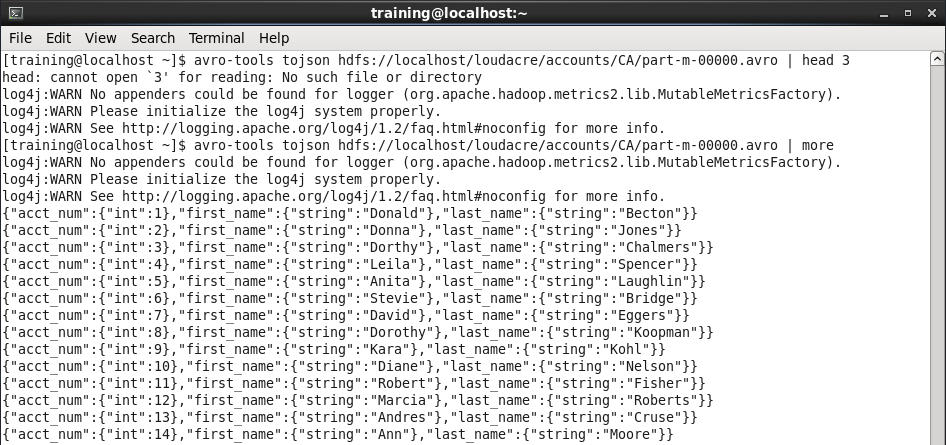
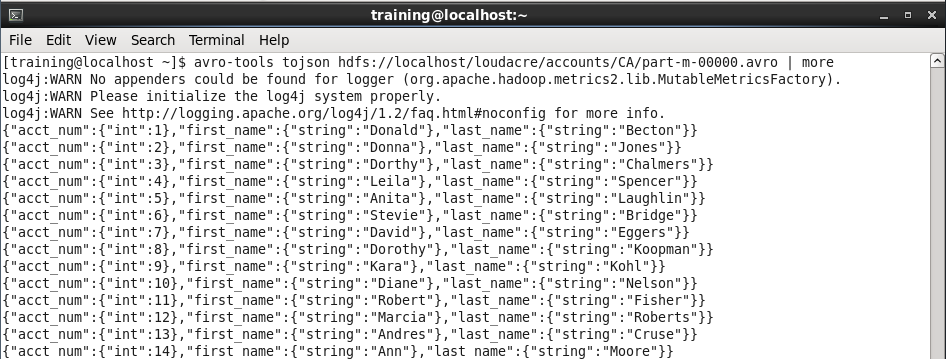
README.md updated
README.md updated

Changed region(s): [[0.0, 0.0, 1.0, 1.0]]

diff --git a/Sqoop/README.md b/Sqoop/README.md
@@ -6,26 +6,26 @@
 
   A. Look up table `accounts` and find out primary key, first name and last name columns.
   ```
-  [training@localhost ~]$ sqoop eval --connect jdbc:mysql://localhost/loudacre --username training --password training --query "DESCRIBE accounts"
-  19/04/07 22:11:19 INFO sqoop.Sqoop: Running Sqoop version: 1.4.6-cdh5.7.0
-  19/04/07 22:11:19 WARN tool.BaseSqoopTool: Setting your password on the command-line is insecure. Consider using -P instead.
-  19/04/07 22:11:19 INFO manager.MySQLManager: Preparing to use a MySQL streaming resultset.
-  ---------------------------------------------------------------------------------------------------------
-  | Field                | Type                 | Null | Key | Default              | Extra                |
-  ---------------------------------------------------------------------------------------------------------
-  | acct_num             | int(11)              | NO  | PRI | (null)               |                      |
-  | acct_create_dt       | datetime             | NO  |     | (null)               |                      |
-  | acct_close_dt        | datetime             | YES |     | (null)               |                      |
-  | first_name           | varchar(255)         | NO  |     | (null)               |                      |
-  | last_name            | varchar(255)         | NO  |     | (null)               |                      |
-  | address              | varchar(255)         | NO  |     | (null)               |                      |
-  | city                 | varchar(255)         | NO  |     | (null)               |                      |
-  | state                | varchar(255)         | NO  |     | (null)               |                      |
-  | zipcode              | varchar(255)         | NO  |     | (null)               |                      |
-  | phone_number         | varchar(255)         | NO  |     | (null)               |                      |
-  | created              | datetime             | NO  |     | (null)               |                      |
-  | modified             | datetime             | NO  |     | (null)               |                      |
-  ---------------------------------------------------------------------------------------------------------
+[training@localhost ~]$ sqoop eval --connect jdbc:mysql://localhost/loudacre --username training --password training --query "DESCRIBE accounts"
+19/04/07 22:11:19 INFO sqoop.Sqoop: Running Sqoop version: 1.4.6-cdh5.7.0
+19/04/07 22:11:19 WARN tool.BaseSqoopTool: Setting your password on the command-line is insecure. Consider using -P instead.
+19/04/07 22:11:19 INFO manager.MySQLManager: Preparing to use a MySQL streaming resultset.
+---------------------------------------------------------------------------------------------------------
+| Field                | Type                 | Null | Key | Default              | Extra                |
+---------------------------------------------------------------------------------------------------------
+| acct_num             | int(11)              | NO  | PRI | (null)               |                      |
+| acct_create_dt       | datetime             | NO  |     | (null)               |                      |
+| acct_close_dt        | datetime             | YES |     | (null)               |                      |
+| first_name           | varchar(255)         | NO  |     | (null)               |                      |
+| last_name            | varchar(255)         | NO  |     | (null)               |                      |
+| address              | varchar(255)         | NO  |     | (null)               |                      |
+| city                 | varchar(255)         | NO  |     | (null)               |                      |
+| state                | varchar(255)         | NO  |     | (null)               |                      |
+| zipcode              | varchar(255)         | NO  |     | (null)               |                      |
+| phone_number         | varchar(255)         | NO  |     | (null)               |                      |
+| created              | datetime             | NO  |     | (null)               |                      |
+| modified             | datetime             | NO  |     | (null)               |                      |
+---------------------------------------------------------------------------------------------------------
   ```
   * Primary Key: acct_num
   * First Name: first_name
@@ -33,7 +33,7 @@
 
   B. Import the table `accounts`
   ```
-  [training@localhost ~]$ sqoop import \
+[training@localhost ~]$ sqoop import \
 > --table accounts \
 > --connect jdbc:mysql://localhost/loudacre \
 > --username training --password training \
@@ -113,12 +113,11 @@ Note: Recompile with -Xlint:deprecation for details.
 		Bytes Written=2615920
 19/04/07 22:16:26 INFO mapreduce.ImportJobBase: Transferred 2.4947 MB in 32.4027 seconds (78.8393 KB/sec)
 19/04/07 22:16:26 INFO mapreduce.ImportJobBase: Retrieved 129761 records.
-
   ```
 
 ### 2. This time save the same in parquet format with snappy compression. Save it in /loudacre/accounts/user_compressed. Provide.a screenshot of HUE with the new directory created.
   ```
-  [training@localhost ~]$ sqoop import \
+[training@localhost ~]$ sqoop import \
 > --table accounts \
 > --connect jdbc:mysql://localhost/loudacre \
 > --username training --password training \
@@ -208,7 +207,7 @@ Note: Recompile with -Xlint:deprecation for details.
 
   A. Import data to HDFS directory /loudacre/accounts/CA
   ```
-  [training@localhost ~]$ sqoop import \
+[training@localhost ~]$ sqoop import \
 > --table accounts \
 > --connect jdbc:mysql://localhost/loudacre \
 > --username training --password training \
@@ -296,11 +295,6 @@ Note: Recompile with -Xlint:deprecation for details.
 
   B. Display imported data by avro-tools.
   ```
-  [training@localhost ~]$ avro-tools tojson hdfs://localhost/loudacre/accounts/CA/part-m-00000.avro | head 3
-head: cannot open `3' for reading: No such file or directory
-log4j:WARN No appenders could be found for logger (org.apache.hadoop.metrics2.lib.MutableMetricsFactory).
-log4j:WARN Please initialize the log4j system properly.
-log4j:WARN See http://logging.apache.org/log4j/1.2/faq.html#noconfig for more info.
 [training@localhost ~]$ avro-tools tojson hdfs://localhost/loudacre/accounts/CA/part-m-00000.avro | more
 log4j:WARN No appenders could be found for logger (org.apache.hadoop.metrics2.lib.MutableMetricsFactory).
 log4j:WARN Please initialize the log4j system properly.
